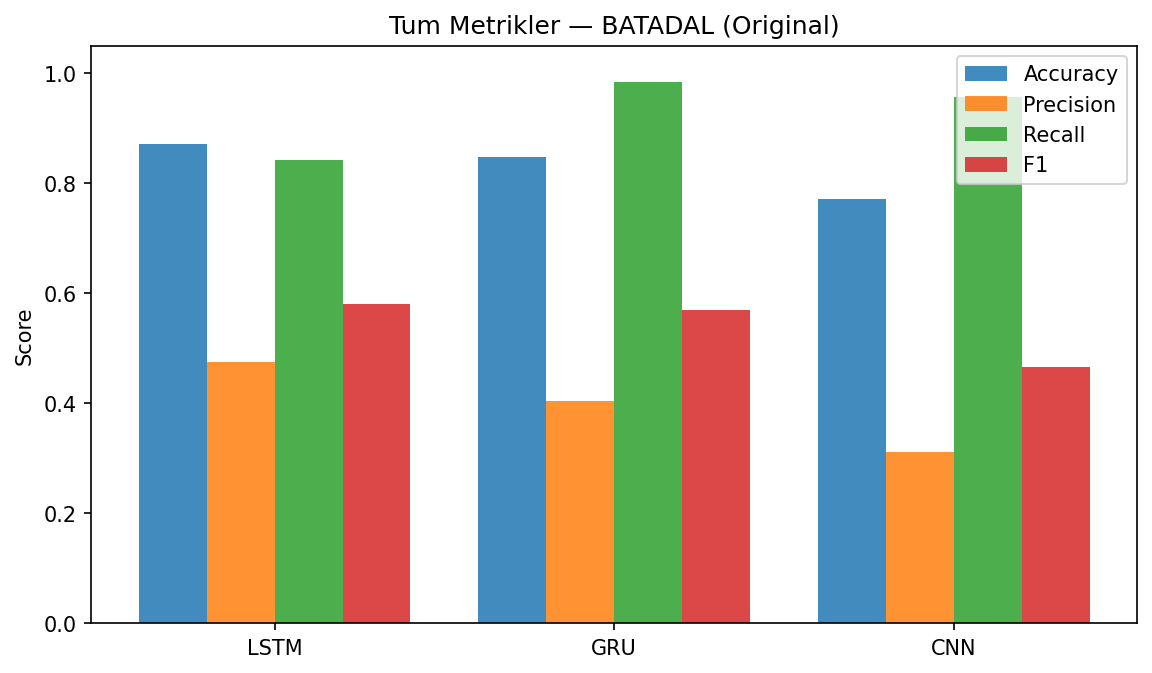
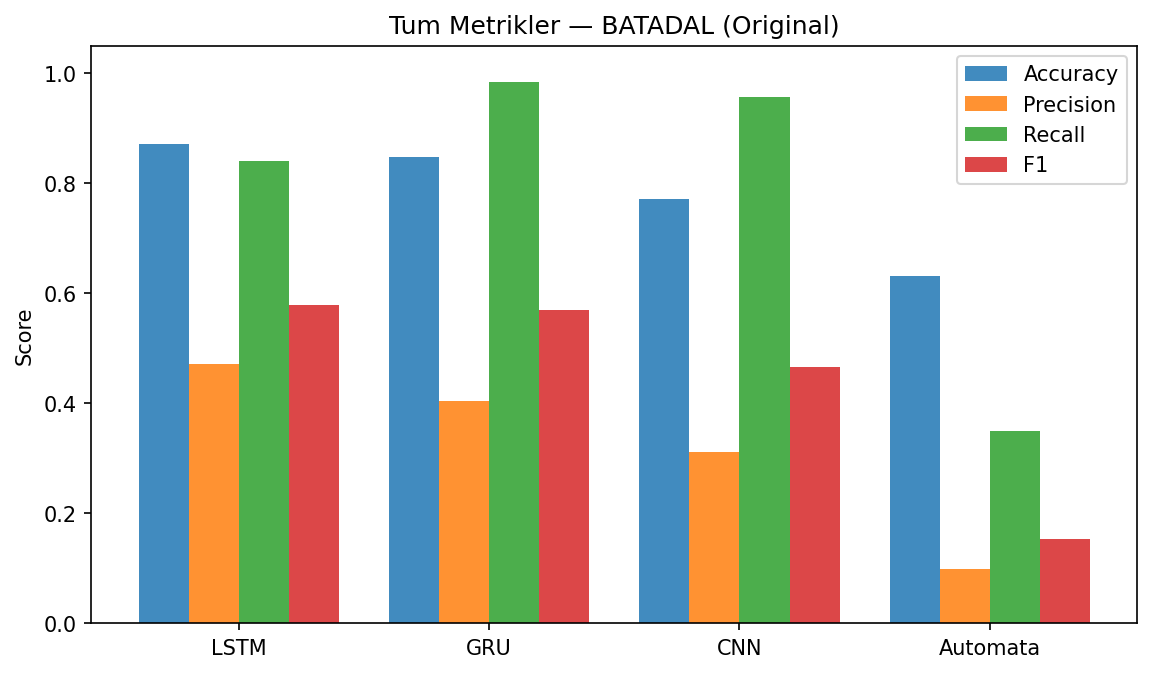
fix: all_metrics grafiklerine Automata sonuclari eklendi
- plot_all_metrics_comparison artik sabit MODELS listesi yerine
  tum modelleri (LSTM/GRU/CNN + Automata) dinamik olarak ciziyor
- BATADAL: Automata sonucu results/BATADAL_Automata_original.json'dan
- SKAB: Automata sonucu all_results.json'daki SKAB_Automata_original'dan
- all_metrics_BATADAL.png ve all_metrics_SKAB.png yeniden uretildi

diff --git a/generate_plots.py b/generate_plots.py
@@ -208,6 +208,13 @@ def generate_batadal_plots(results_dir: Path, out_dir: Path) -> None:
                     out_path=out_dir / f"pr_BATADAL_{model}_{scenario}.png",
                 )
 
+    # Otomata sonucunu all_metrics grafigine ekle (varsa)
+    auto_path = results_dir / "BATADAL_Automata_original.json"
+    if auto_path.exists():
+        all_orig["Automata"] = load_json(auto_path)
+    else:
+        print(f"  Otomata sonucu yok ({auto_path}) — all_metrics'e eklenmedi")
+
     if orig_means:
         plot_model_comparison(
             MODELS[:len(orig_means)], orig_means, orig_stds,
@@ -220,7 +227,7 @@ def generate_batadal_plots(results_dir: Path, out_dir: Path) -> None:
             out_path=out_dir / "noise_comparison_BATADAL.png",
         )
         plot_all_metrics_comparison(
-            MODELS[:len(all_orig)], all_orig,
+            list(all_orig.keys()), all_orig,
             title="Tum Metrikler — BATADAL (Original)",
             out_path=out_dir / "all_metrics_BATADAL.png",
         )
@@ -326,8 +333,21 @@ def generate_skab_plots(results_dir: Path, out_dir: Path) -> None:
                 "recall_mean": r.get("recall_fold_mean", r.get("recall_mean", 0)),
                 "f1_mean": r.get("f1_fold_mean", r.get("f1_mean", 0)),
             }
+
+        # Otomata sonucunu all_metrics grafigine ekle (varsa)
+        auto = all_data.get("SKAB_Automata_original")
+        if auto:
+            compat_orig["Automata"] = {
+                "accuracy_mean": auto.get("accuracy_fold_mean", auto.get("accuracy_mean", 0)),
+                "precision_mean": auto.get("precision_fold_mean", auto.get("precision_mean", 0)),
+                "recall_mean": auto.get("recall_fold_mean", auto.get("recall_mean", 0)),
+                "f1_mean": auto.get("f1_fold_mean", auto.get("f1_mean", 0)),
+            }
+        else:
+            print("  Otomata sonucu yok (SKAB_Automata_original) — all_metrics'e eklenmedi")
+
         plot_all_metrics_comparison(
-            valid_models, compat_orig,
+            list(compat_orig.keys()), compat_orig,
             title="Tum Metrikler — SKAB (Original)",
             out_path=out_dir / "all_metrics_SKAB.png",
         )
